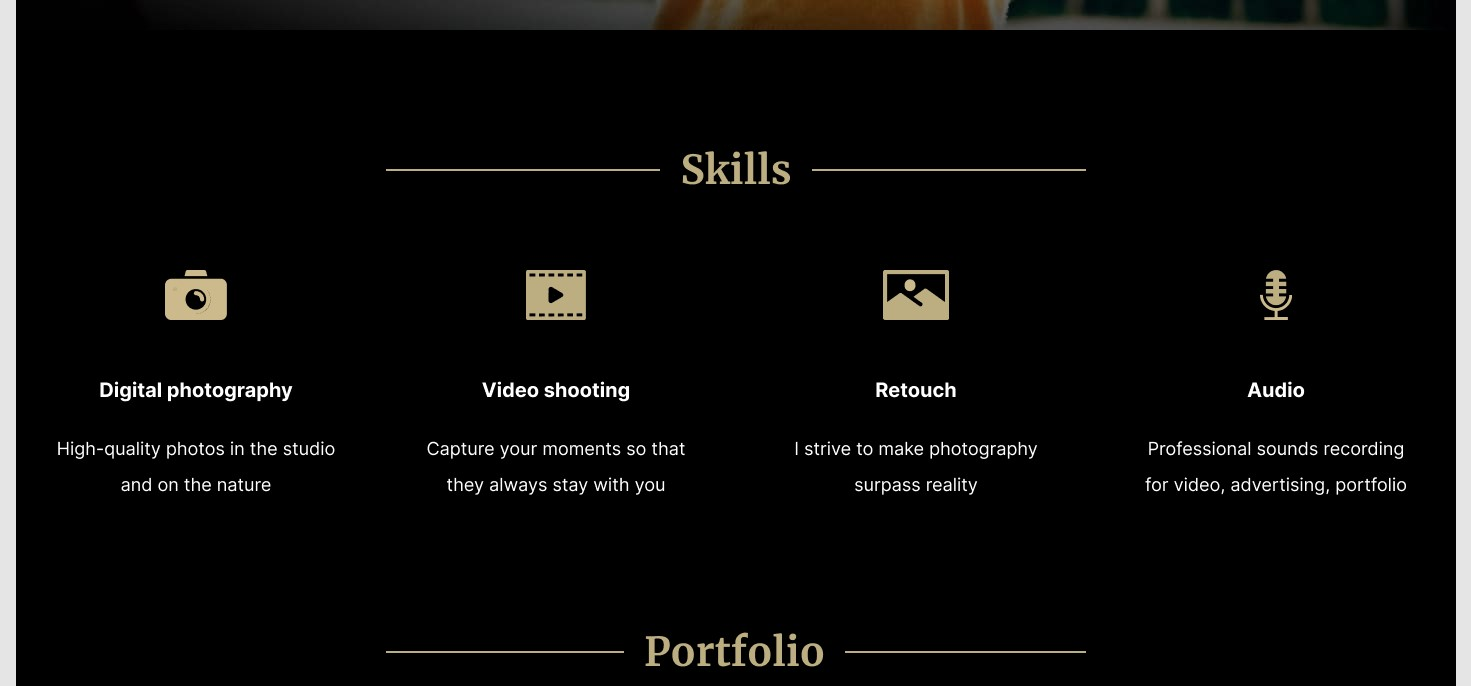
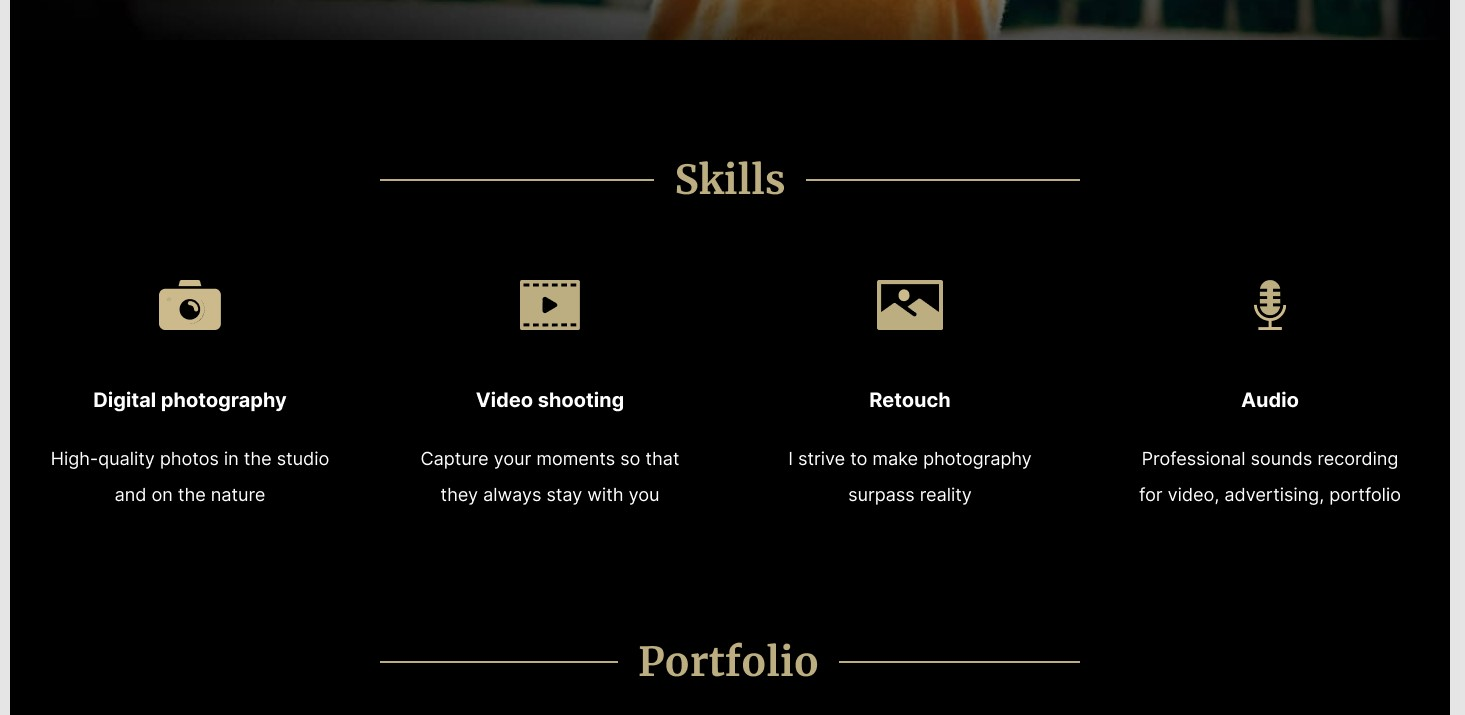
feat: add block 'skills'

diff --git a/portfolio/css/skills.css b/portfolio/css/skills.css
@@ -1,6 +1,59 @@
 /* ========= Skills =============== */
 .section-skills {
    height: 482px;
-   padding-top: 100px;
-   color: red;
+}
+
+.skills-container {
+   display: flex;
+   justify-content: space-between;
+   flex-wrap: wrap;
+   padding-top: 60px;
+}
+
+.skills-item {
+   position: relative;
+   width: 320px;
+   height: 240px;
+   margin: 0 20px;
+
+   /* outline: 1px solid white; */
+   background-position: center top;
+   background-repeat: no-repeat;
+}
+
+.skills-item:nth-child(1) {
+   background-image: url('/portfolio/assets/img/skills/camera.png');
+}
+
+.skills-item:nth-child(2) {
+   background-image: url('/portfolio/assets/img/skills/video.png');
+}
+
+.skills-item:nth-child(3) {
+   background-image: url('/portfolio/assets/img/skills/image.png');
+}
+
+.skills-item:nth-child(4) {
+   background-image: url('/portfolio/assets/img/skills/mic.png');
+}
+
+.item-title {
+   color: white;
+   text-align: center;
+   font-size: 20px;
+   font-weight: 700;
+   line-height: 40px;
+
+   padding: 100px 20px 0px 20px;
+}
+
+.item-text {
+   color: white;
+   text-align: center;
+   font-size: 18px;
+   font-weight: 400;
+   line-height: 36px;
+
+   padding: 20px 20px 8px 20px;
+
 }

diff --git a/portfolio/index.html b/portfolio/index.html
@@ -68,6 +68,24 @@
                <div class="section-title">
                   <h2 class="">Skills</h2>
                </div>
+               <div class="skills-container">
+                  <div class="skills-item">
+                     <div class="item-title">Digital photography</div>
+                     <div class="item-text">High-quality photos in the studio and on the nature</div>
+                  </div>
+                  <div class="skills-item">
+                     <div class="item-title">Video shooting</div>
+                     <div class="item-text">Capture your moments so that they always stay with you</div>
+                  </div>
+                  <div class="skills-item">
+                     <div class="item-title">Retouch</div>
+                     <div class="item-text">I strive to make photography surpass reality</div>
+                  </div>
+                  <div class="skills-item">
+                     <div class="item-title">Audio</div>
+                     <div class="item-text">Professional sounds recording for video, advertising, portfolio</div>
+                  </div>
+               </div>
             </section>
 
 

diff --git a/portfolio/style.css b/portfolio/style.css
@@ -35,6 +35,7 @@ body {
 
 .section {
    color: #ffffff;
+   padding-top: 100px;
 }
 
 
@@ -148,7 +149,7 @@ h2 {
    position: relative;
    overflow: hidden;
    margin: 0;
-   padding: 0 30px;
+   padding: 0 22px;
    left: 50%;
    top: 50%;
    transform: translate(-50%, -50%);
@@ -205,7 +206,7 @@ ul {
    display: block;
    position: relative;
    width: 700px;
-   height: 4px;
+   height: 2px;
    top: 40px;
    background-color: #bdae82;
 }
